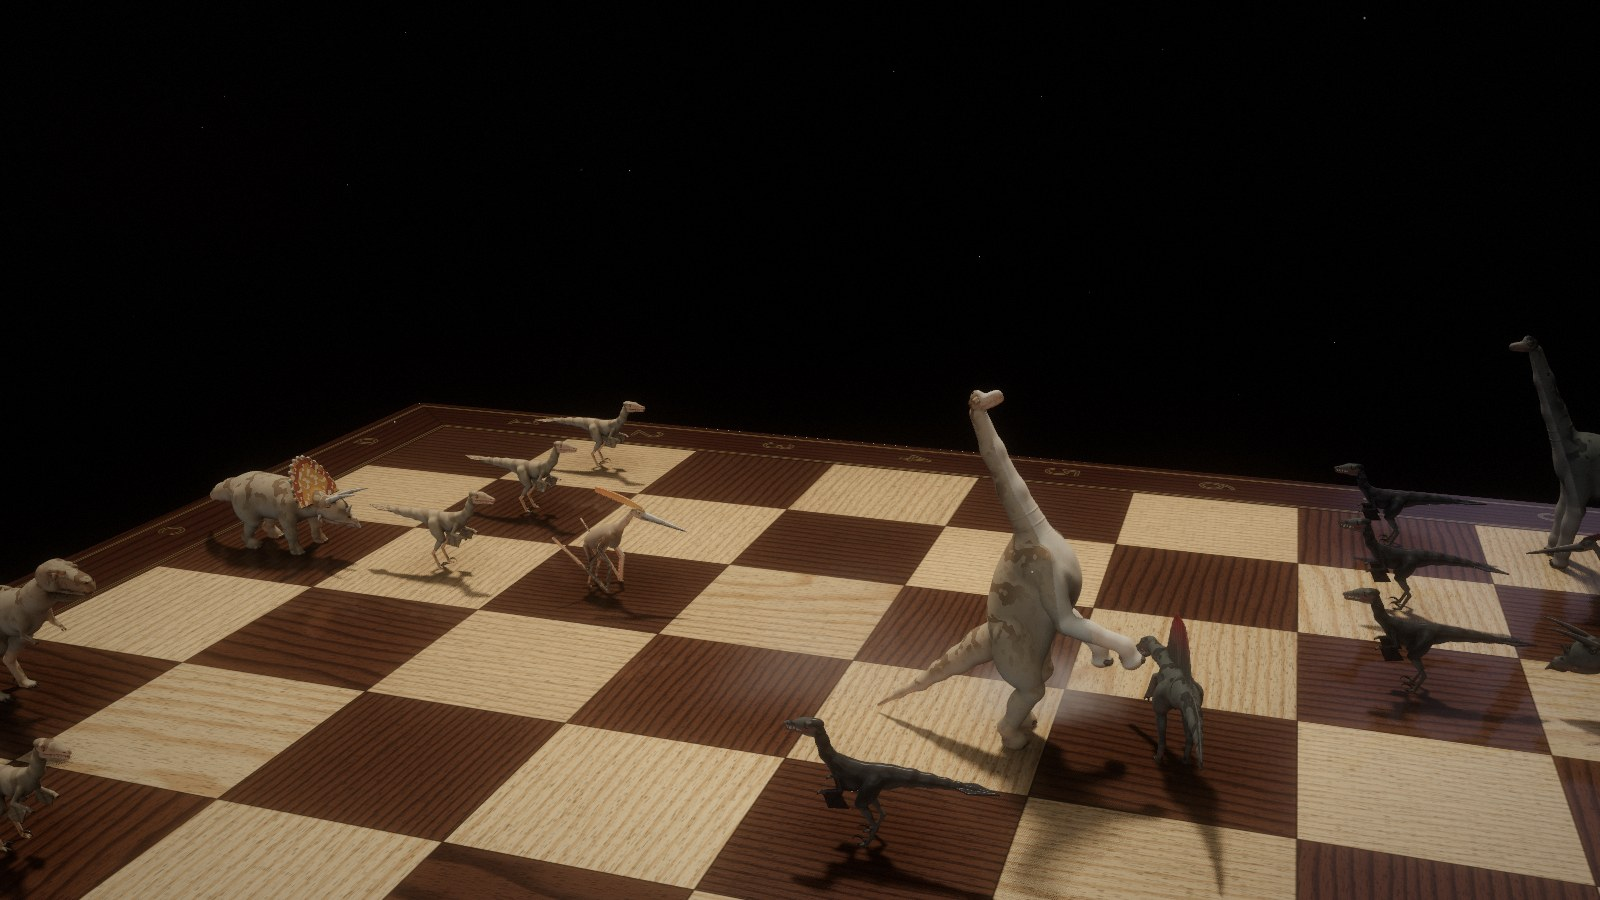
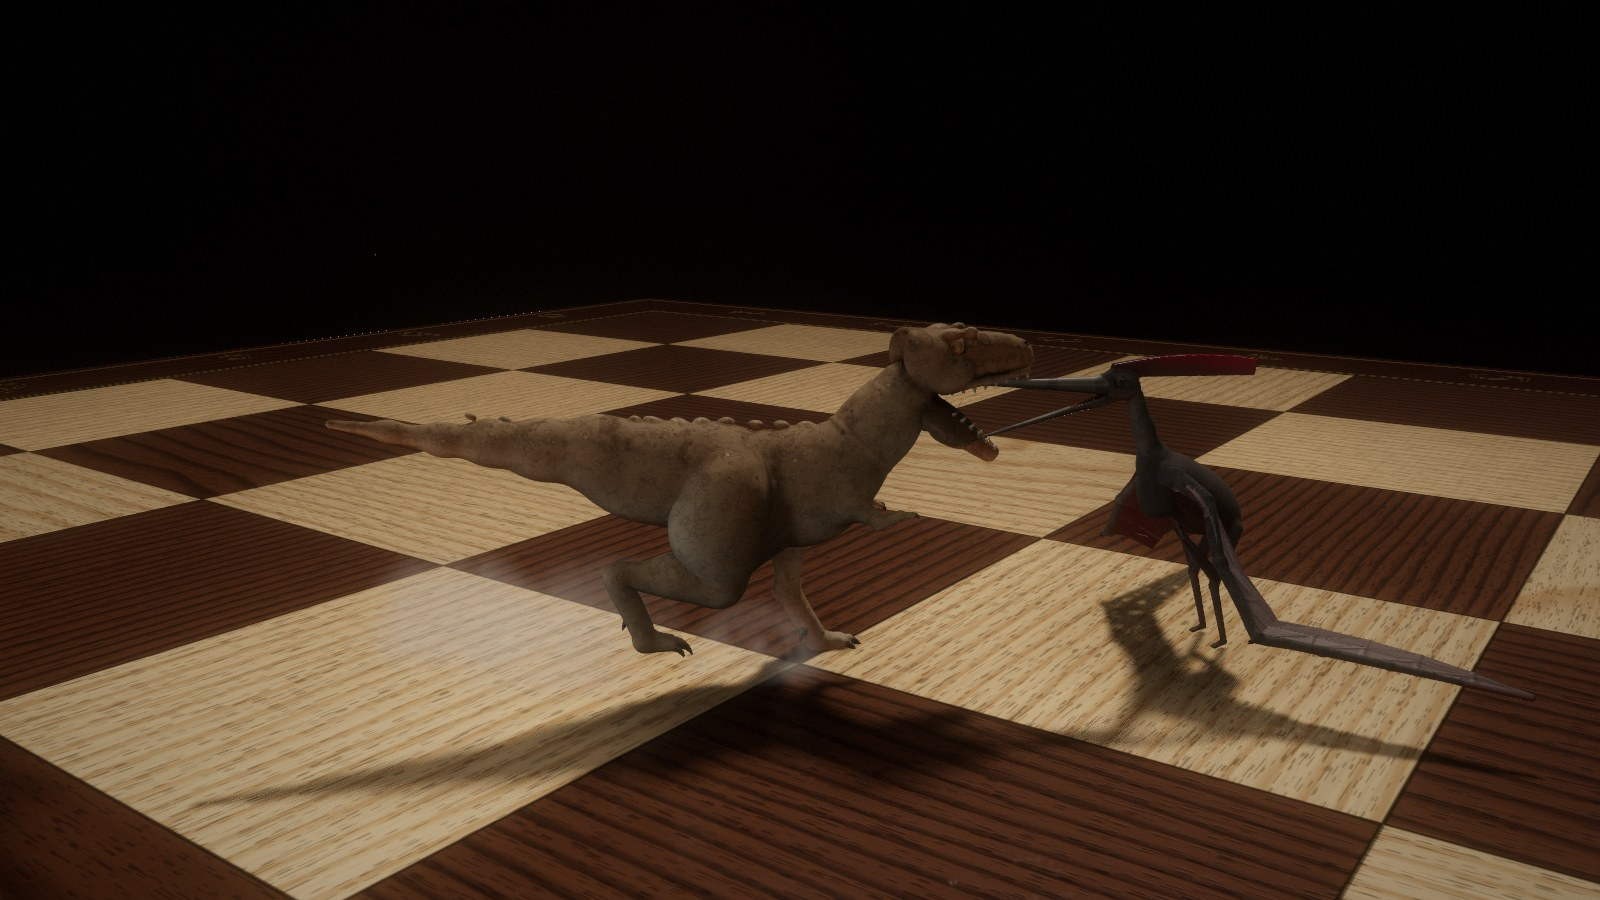
Dinosaurs: the README, the web page and a new screenshot
The tyrannosaurus lunging, jaws wide, at a pteranodon; the jaws and the new
skin described.

Claude-Session: https://claude.ai/code/session_015WhQyoxcrND2GtxJzW2iXd

diff --git a/web/index.html b/web/index.html
@@ -377,8 +377,8 @@
       <figcaption>Aliens: a flying saucer beams up a psychic in a glass jar.</figcaption></figure>
     <figure><img src="screens/roman-battle.jpg" alt="A legionary pole-vaults over his enemy in a somersault" loading="lazy" width="1600" height="900">
       <figcaption>Romans: a legionary pole-vaults over his enemy in a somersault, to stab him in the back.</figcaption></figure>
-    <figure><img src="screens/dino-battle.jpg" alt="A brachiosaurus rears up over a spinosaurus" loading="lazy" width="1600" height="900">
-      <figcaption>Dinosaurs: a brachiosaurus rears up over the spinosaurus queen, to come crashing down on her.</figcaption></figure>
+    <figure><img src="screens/dino-battle.jpg" alt="A tyrannosaurus lunges, jaws wide, at a pteranodon" loading="lazy" width="1600" height="900">
+      <figcaption>Dinosaurs: the tyrannosaurus king lunges, jaws wide, at a pteranodon stabbing at him with its beak.</figcaption></figure>
   </div>
 
   <footer>Living Marble @PROJECT_VERSION@ &middot; everything you see and hear is made by the game as it starts &middot;

diff --git a/README.md b/README.md
@@ -4,7 +4,7 @@
 
 | Living Marble | Medieval | Aliens | Romans | Dinosaurs |
 | :---: | :---: | :---: | :---: | :---: |
-| ![The white queen's magic shatters a black rook](docs/screenshots/marble-battle.jpg) | ![A knight draws his sword and cuts down his rival at a gallop](docs/screenshots/medieval-battle.jpg) | ![A flying saucer beams up a psychic in a glass jar](docs/screenshots/alien-battle.jpg) | ![A legionary pole-vaults over his enemy in a somersault](docs/screenshots/roman-battle.jpg) | ![A brachiosaurus rears up over a spinosaurus, to crash down on her](docs/screenshots/dino-battle.jpg) |
+| ![The white queen's magic shatters a black rook](docs/screenshots/marble-battle.jpg) | ![A knight draws his sword and cuts down his rival at a gallop](docs/screenshots/medieval-battle.jpg) | ![A flying saucer beams up a psychic in a glass jar](docs/screenshots/alien-battle.jpg) | ![A legionary pole-vaults over his enemy in a somersault](docs/screenshots/roman-battle.jpg) | ![A tyrannosaurus lunges, jaws wide, at a pteranodon stabbing with its beak](docs/screenshots/dino-battle.jpg) |
 
 A photoreal 3D chess game in C++ where carved marble Staunton pieces come alive:
 they hop, lean, wobble and turn to face each other — and every capture is a
@@ -374,12 +374,19 @@ lion and a poisoned cup.
 The fifth army (*Pieces › Dinosaurs*, or `--pieces dino`) is sculpted the same
 way, also in the background the first time: muscled thighs and shoulders, knees,
 elbows and ankles, padded feet, folds of skin round the neck, lips over the
-teeth. Their scales, feathers, fur, horns and skin are drawn by the shader: each
-scale domed, with dark creases between them (fading into an even tone at a
-distance instead of glittering), the skin wrinkled in the creases behind the
-knees and elbows, the hides banded, mottled and countershaded (pale bellies).
-White's army is sand and cream with rust markings, Black's slate and charcoal
-with crimson (its raptors' feathers shimmer green and purple).
+teeth. Every mouth is sculpted agape, so that the upper and lower jaws, their
+teeth, the palate and the tongue are each a surface of its own: a bite opens
+wide, the jaws parting cleanly (no skin stretched between them), and closes with
+the teeth meeting under the lips. Their scales, feathers, fur, horns and skin
+are drawn by the shader: a ground of small pebbly scales with larger, domed
+scales scattered over the back in clusters and broad scales in rows under the
+belly, each scale one colour, waxy on top and matte in the creases (fading into
+an even tone at a distance instead of glittering); the hide folded into
+wrinkles, darker along the back, with narrow dark bands across it and the tail,
+speckled and countershaded (pale bellies), the feet dusty; the raptors'
+feathers lie in overlapping layers; wet, dark mouths. White's army is sand and
+tan with dark brown markings, Black's slate and charcoal with crimson (its
+raptors' feathers shimmer green and purple).
 
 - **Pawn** — a velociraptor: feathered, with quills on its arms and a fan of
   feathers on its tail, a long low snout full of teeth, and a sickle claw held up
